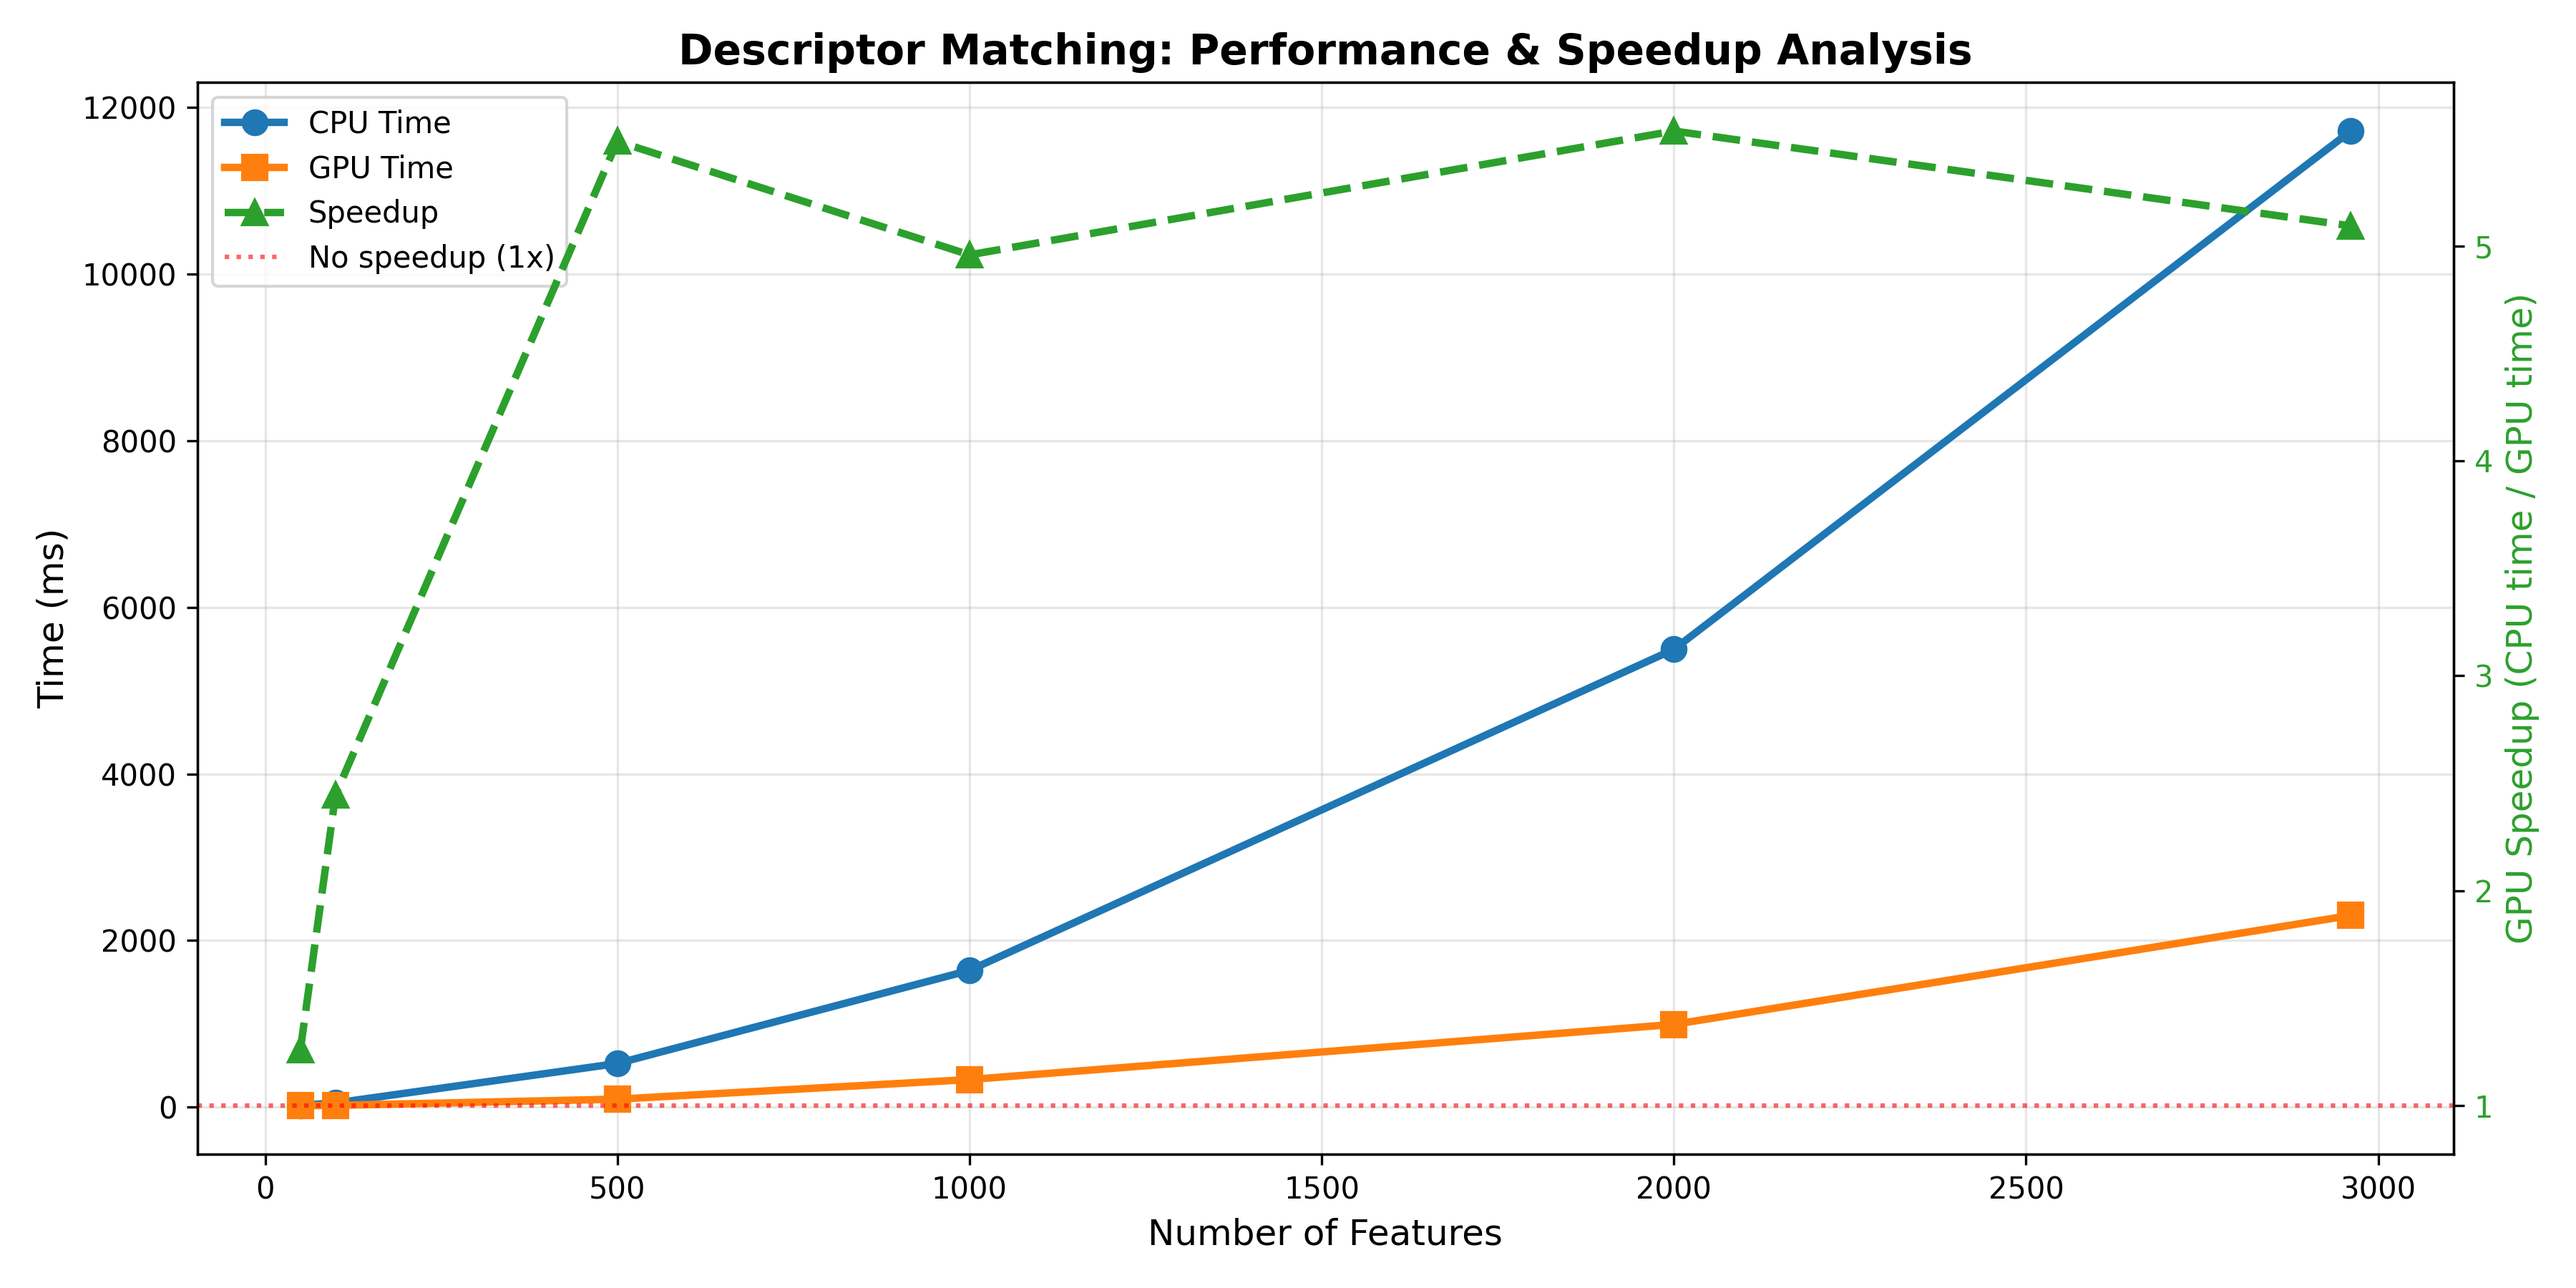
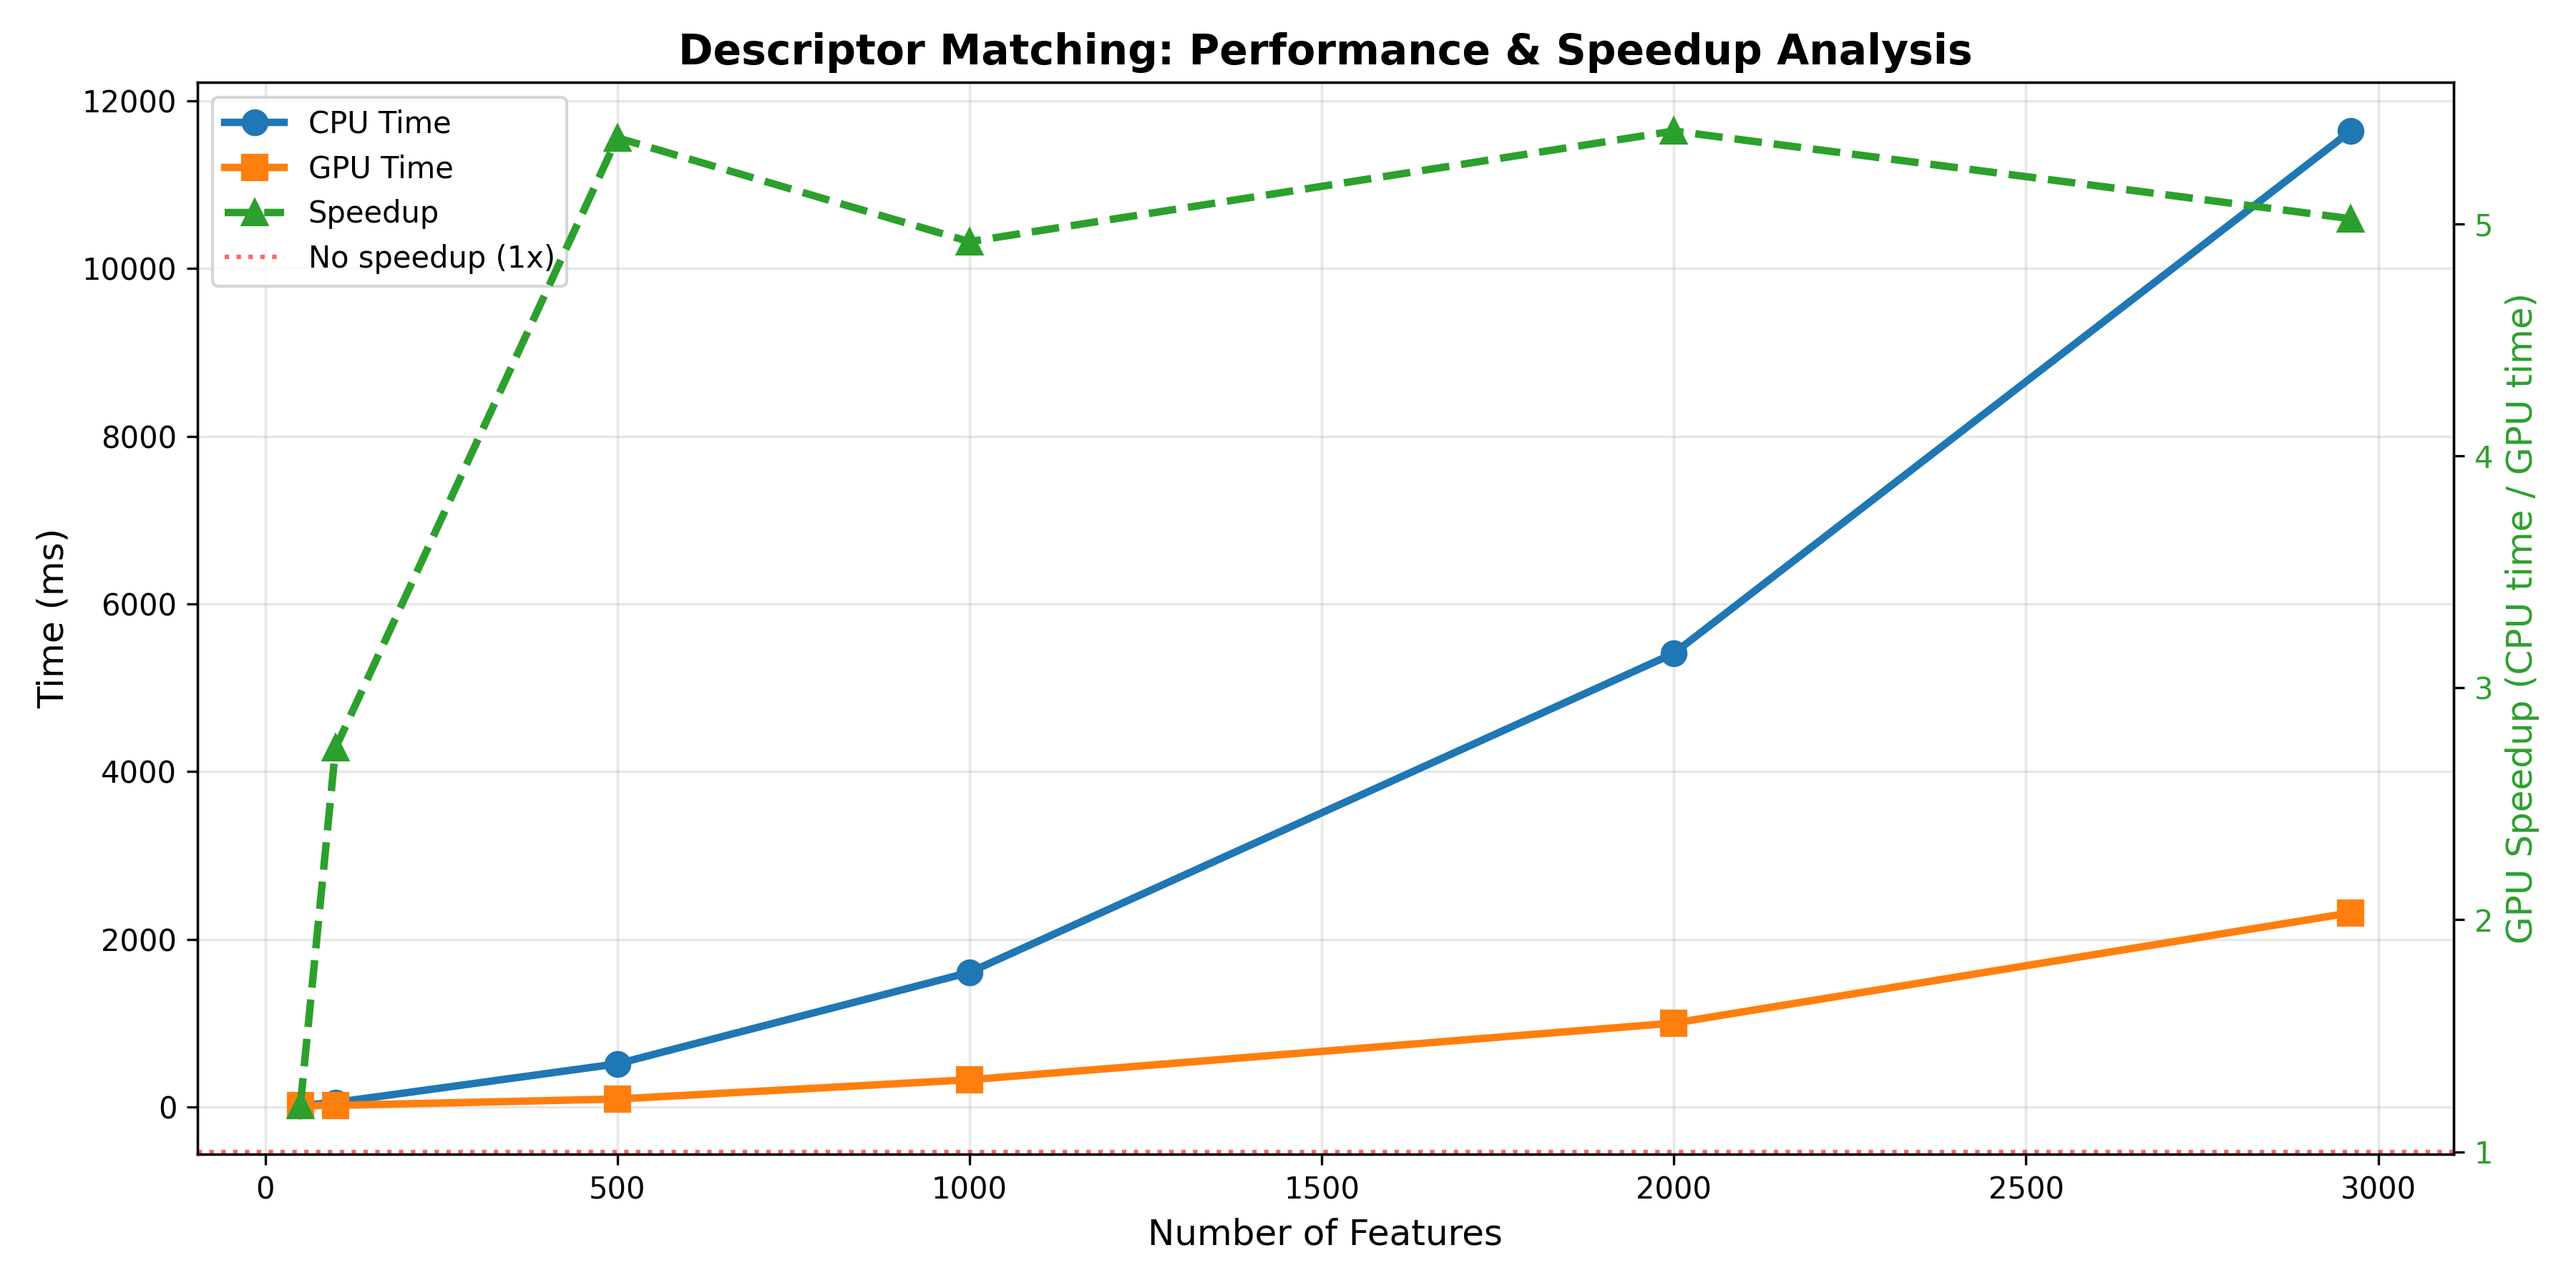
Update README and summary image

diff --git a/README.md b/README.md
@@ -67,9 +67,11 @@ Outputs `summary.png` with CPU vs GPU performance across feature counts (50 to 5
 - Outputs: `descriptors/des{N}.npy`, `des{N}.bin`, `meta.txt`
 
 ### generate_results.py
-- Tests feature counts: 50, 100, 500, 1K, 2K, 3K, 4K, 5K
-- Runs CPU (OpenCV) and GPU (CUDA) benchmarks
-- Generates performance plot
+- Tests feature counts: 50, 100, 500, 1K, 2K, 3K, 4K, 5K (adaptive)
+- Automatically stops when images can't provide more features
+- Runs CPU (OpenCV) and GPU (CUDA) benchmarks for each count
+- Generates performance plot with absolute times and speedup curves
+- Outputs: `summary.png` with dual-axis visualization
 
 ## Implementation Details
 
